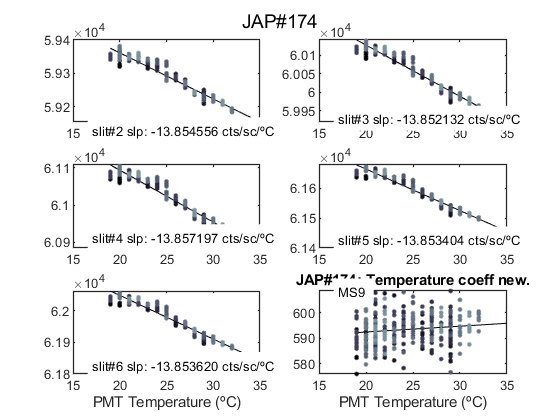
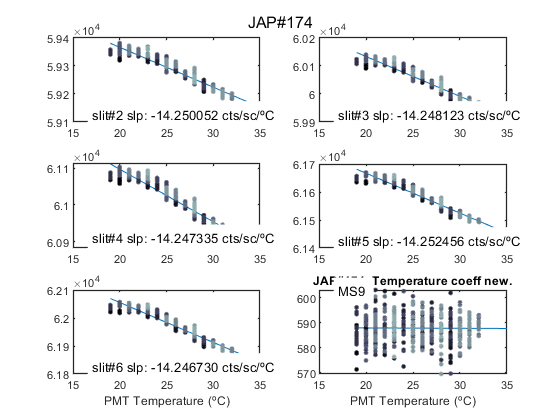
cal_report_174a2

diff --git a/latex/174/html/cal_report_174a2.html b/latex/174/html/cal_report_174a2.html
@@ -6,7 +6,7 @@
    <!--
 This HTML was auto-generated from MATLAB code.
 To make changes, update the MATLAB code and republish this document.
-      --><title>cal_report_174a2</title><meta name="generator" content="MATLAB 9.4"><link rel="schema.DC" href="http://purl.org/dc/elements/1.1/"><meta name="DC.date" content="2019-06-25"><meta name="DC.source" content="cal_report_174a2.m"><style type="text/css">
+      --><title>cal_report_174a2</title><meta name="generator" content="MATLAB 9.4"><link rel="schema.DC" href="http://purl.org/dc/elements/1.1/"><meta name="DC.date" content="2019-06-27"><meta name="DC.source" content="cal_report_174a2.m"><style type="text/css">
 html,body,div,span,applet,object,iframe,h1,h2,h3,h4,h5,h6,p,blockquote,pre,a,abbr,acronym,address,big,cite,code,del,dfn,em,font,img,ins,kbd,q,s,samp,small,strike,strong,sub,sup,tt,var,b,u,i,center,dl,dt,dd,ol,ul,li,fieldset,form,label,legend,table,caption,tbody,tfoot,thead,tr,th,td{margin:0;padding:0;border:0;outline:0;font-size:100%;vertical-align:baseline;background:transparent}body{line-height:1}ol,ul{list-style:none}blockquote,q{quotes:none}blockquote:before,blockquote:after,q:before,q:after{content:'';content:none}:focus{outine:0}ins{text-decoration:none}del{text-decoration:line-through}table{border-collapse:collapse;border-spacing:0}
 
 html { min-height:100%; margin-bottom:1px; }
@@ -66,7 +66,7 @@ table td { padding:7px 5px; text-align:left; vertical-align:top; border:1px soli
 
 
 
-  </style></head><body><div class="content"><h2>Contents</h2><div><ul><li><a href="#2">Brewer Setup</a></li><li><a href="#3">configuration files</a></li><li><a href="#4">Temperature dependence.  During campaign</a></li><li><a href="#9">Check previous results</a></li><li><a href="#10">SL summary from bfiles temperature</a></li><li><a href="#13">Check changes</a></li><li><a href="#15">Latex stuff</a></li><li><a href="#16">Filter attenuation</a></li></ul></div><pre class="codeinput"><span class="comment">% options_pub.outputDir=fullfile(pwd,'latex','174','html'); options_pub.showCode=true;</span>
+  </style></head><body><div class="content"><h2>Contents</h2><div><ul><li><a href="#2">Brewer Setup</a></li><li><a href="#3">configuration files</a></li><li><a href="#4">Temperature dependence.  During campaign</a></li><li><a href="#9">Check previous results</a></li><li><a href="#10">SL summary from bfiles temperature</a></li><li><a href="#14">Latex stuff</a></li><li><a href="#15">Filter attenuation</a></li></ul></div><pre class="codeinput"><span class="comment">% options_pub.outputDir=fullfile(pwd,'latex','174','html'); options_pub.showCode=true;</span>
 <span class="comment">% publish(fullfile(pwd,'cal_report_174a2.m'),options_pub);</span>
 </pre><h2 id="2">Brewer Setup</h2><pre class="codeinput">clear <span class="string">all</span>;
 
@@ -89,12 +89,20 @@ mkdir(Cal.dir_figs);
 
 load(Cal.file_save,<span class="string">'temperature'</span>);
 load(Cal.file_save,<span class="string">'filter'</span>);
-</pre><pre class="codeoutput">ans =
-  1&times;1 cell array
-    {'IZO#185'}
+</pre><pre class="codeoutput">
 ans =
+
+  1&times;1 cell array
+
+    {'IZO#185'}
+
+
+ans =
+
   20&times;9 cell array
+
   Columns 1 through 5
+
     {'TSK#005'}    {[  5]}    {[2]}    {[0]}    {'005'}
     {'IOS#017'}    {[ 17]}    {[2]}    {[0]}    {'017'}
     {'SCO#033'}    {[ 33]}    {[2]}    {[0]}    {'033'}
@@ -115,27 +123,34 @@ ans =
     {'TAM#201'}    {[201]}    {[3]}    {[0]}    {'201'}
     {'DNK#202'}    {[202]}    {[3]}    {[0]}    {'202'}
     {'DNK#228'}    {[228]}    {[3]}    {[0]}    {'228'}
+
   Columns 6 through 9
-    {'..\005\ICF15117&#8230;'}    {'..\005\ICF15117&#8230;'}    {'1838'}    {'1838'}
+
+    {'..\005\ICF15117&#8230;'}    {'..\005\ICF17219&#8230;'}    {'1838'}    {'1838'}
     {'..\017\ICF14919&#8230;'}    {'..\017\ICF14919&#8230;'}    {'1680'}    {'1680'}
     {'..\033\ICF15617&#8230;'}    {'..\033\IOS15617&#8230;'}    {'2325'}    {'2325'}
     {'..\070\ICF15617&#8230;'}    {'..\070\IOS15617&#8230;'}    {'1685'}    {'1685'}
-    {'..\075\ICF15017&#8230;'}    {'..\075\ICF15017&#8230;'}    {'1714'}    {'1714'}
+    {'..\075\ICF15017&#8230;'}    {'..\075\ICF17819&#8230;'}    {'1714'}    {'1714'}
     {'..\117\ICF15517&#8230;'}    {'..\117\IOS15517&#8230;'}    {'1620'}    {'1620'}
     {'..\126\icf15517&#8230;'}    {'..\126\ICF17419&#8230;'}    {'1710'}    {'1710'}
     {'..\150\ICF15617&#8230;'}    {'..\150\ICF15617&#8230;'}    {'0322'}    {'0322'}
     {'..\151\ICF15317&#8230;'}    {'..\151\IOS15317&#8230;'}    {'1880'}    {'1880'}
     {'..\158\ICF21218&#8230;'}    {'..\158\ICF21218&#8230;'}    {'0558'}    {'0558'}
-    {'..\163\ICF23318&#8230;'}    {'..\163\ICF23318&#8230;'}    {'0274'}    {'0274'}
+    {'..\163\ICF21018&#8230;'}    {'..\163\ICF17519&#8230;'}    {'0274'}    {'0274'}
     {'..\166\ICF15217&#8230;'}    {'..\166\ICF17419&#8230;'}    {'1955'}    {'1955'}
-    {'..\172\ICF15117&#8230;'}    {'..\172\ICF15117&#8230;'}    {'0444'}    {'0444'}
+    {'..\172\ICF15117&#8230;'}    {'..\172\ICF17819&#8230;'}    {'0444'}    {'0444'}
     {'..\174\ICF20718&#8230;'}    {'..\174\ICF20718&#8230;'}    {'0605'}    {'0605'}
     {'..\185\config18&#8230;'}    {'..\185\config18&#8230;'}    {'0365'}    {'0367'}
     {'..\186\ICF15317&#8230;'}    {'..\186\IOS15317&#8230;'}    {'0315'}    {'0315'}
     {'..\190\ICF11419&#8230;'}    {'..\190\ICF11419&#8230;'}    {'0410'}    {'0410'}
     {'..\201\ICF14315&#8230;'}    {'..\201\ICF14315&#8230;'}    {'0320'}    {'0320'}
-    {'..\202\ICF15017&#8230;'}    {'..\202\ICF15017&#8230;'}    {'0270'}    {'0270'}
-    {'..\228\ICF15017&#8230;'}    {'..\228\ICF17319&#8230;'}    {'0242'}    {'0242'}
+    {'..\202\ICF15017&#8230;'}    {'..\202\ICF17519&#8230;'}    {'0270'}    {'0270'}
+    {'..\228\ICF15017&#8230;'}    {'..\228\ICF17419&#8230;'}    {'0242'}    {'0242'}
+
+-&gt;ERROR
+     2
+
+D:\CODE\campaigns\are2019\bfiles\202\..\202\ICF17519.202
 </pre><h2 id="3">configuration files</h2><pre class="codeinput">close <span class="string">all</span>;
 
 [config_def,TCdef,DTdef,ETCdef,A1def,ATdef]=read_icf(Cal.brw_config_files{Cal.n_inst,2});
@@ -163,22 +178,22 @@ List of arguments given default values:
    'TCB'    defaults to []
    'N_TC'    defaults to []
 --------------------------------------
- ORIG MS9:   590 +/- 1  0.3 +/- 0.04  
-  NEW MS9:   588 +/- 2  0.2 +/- 0.08  
+ ORIG MS9:   590 +/- 1  0.3 +/- 0.03  
+  NEW MS9:   588 +/- 2  -0.0 +/- 0.07  
 </pre><img vspace="5" hspace="5" src="cal_report_174a2_01.png" alt=""> <img vspace="5" hspace="5" src="cal_report_174a2_02.png" alt=""> <img vspace="5" hspace="5" src="cal_report_174a2_03.png" alt=""> <img vspace="5" hspace="5" src="cal_report_174a2_04.png" alt=""> <pre class="codeinput">    makeHtmlTable([ajuste{1}.cero(:,[1 3]) ajuste{1}.cero(:,[2 4])],[],<span class="keyword">...</span>
         {<span class="string">'slit#2'</span>,<span class="string">'slit#3'</span>,<span class="string">'slit#4'</span>,<span class="string">'slit#5'</span>,<span class="string">'slit#6'</span>,<span class="string">'R5'</span>,<span class="string">'R6'</span>},{<span class="string">'a'</span>,<span class="string">'a SE'</span>,<span class="string">'b'</span>,<span class="string">'b SE'</span>},[],4);
 </pre><table border="1" cellpadding="4" cellspacing="0">
 <tr><td></td><td>a</td><td>a SE</td><td>b</td><td>b SE</td></tr>
-<tr><td>slit#2</td><td>5.964e+04</td><td>5.143</td><td>-13.85</td><td>0.2098</td></tr>
-<tr><td>slit#3</td><td>6.04e+04</td><td>4.691</td><td>-13.98</td><td>0.1914</td></tr>
-<tr><td>slit#4</td><td>6.137e+04</td><td>4.588</td><td>-14.06</td><td>0.1872</td></tr>
-<tr><td>slit#5</td><td>6.194e+04</td><td>4.366</td><td>-13.48</td><td>0.1781</td></tr>
-<tr><td>slit#6</td><td>6.233e+04</td><td>4.332</td><td>-13.36</td><td>0.1767</td></tr>
-<tr><td>R5</td><td>1055</td><td>3.847</td><td>0.3861</td><td>0.1569</td></tr>
-<tr><td>R6</td><td>587.9</td><td>2.017</td><td>0.24</td><td>0.08228</td></tr>
+<tr><td>slit#2</td><td>5.965e+04</td><td>5.153</td><td>-14.25</td><td>0.204</td></tr>
+<tr><td>slit#3</td><td>6.042e+04</td><td>4.644</td><td>-14.42</td><td>0.1838</td></tr>
+<tr><td>slit#4</td><td>6.138e+04</td><td>4.555</td><td>-14.38</td><td>0.1803</td></tr>
+<tr><td>slit#5</td><td>6.195e+04</td><td>4.357</td><td>-13.83</td><td>0.1725</td></tr>
+<tr><td>slit#6</td><td>6.234e+04</td><td>4.226</td><td>-13.79</td><td>0.1673</td></tr>
+<tr><td>R5</td><td>1056</td><td>3.186</td><td>0.3534</td><td>0.1261</td></tr>
+<tr><td>R6</td><td>588.2</td><td>1.658</td><td>0.2331</td><td>0.06564</td></tr>
 </table><pre class="codeinput">    makeHtmlTable(NTC{1});
 </pre><table border="1" cellpadding="4" cellspacing="0">
-<tr><td>0</td><td>0.13</td><td>0.2</td><td>-0.37</td><td>-0.49</td></tr>
+<tr><td>0</td><td>0.17</td><td>0.13</td><td>-0.42</td><td>-0.46</td></tr>
 </table><pre class="codeinput"><span class="keyword">else</span>
     Fr=NaN*ones(1,9);
     ajuste{1}.orig=NaN*ones(7,4);
@@ -229,10 +244,14 @@ List of arguments given default values:
 </pre><img vspace="5" hspace="5" src="cal_report_174a2_05.png" alt=""> <img vspace="5" hspace="5" src="cal_report_174a2_06.png" alt=""> <img vspace="5" hspace="5" src="cal_report_174a2_07.png" alt=""> <img vspace="5" hspace="5" src="cal_report_174a2_08.png" alt=""> <img vspace="5" hspace="5" src="cal_report_174a2_09.png" alt=""> <pre class="codeinput">tc_reg_table=makeHtml_Table([ajuste{2}.cero(:,[1 3]) ajuste{2}.cero(:,[2 4])],[],<span class="keyword">...</span>
         {<span class="string">'slit#2'</span>,<span class="string">'slit#3'</span>,<span class="string">'slit#4'</span>,<span class="string">'slit#5'</span>,<span class="string">'slit#6'</span>,<span class="string">'R5'</span>,<span class="string">'R6'</span>},{<span class="string">'a'</span>,<span class="string">'a SE'</span>,<span class="string">'b'</span>,<span class="string">'b SE'</span>},[],4)
 temperature{Cal.n_inst}.regression_table=tc_reg_table;
-</pre><pre class="codeoutput">tc_reg_table =
+</pre><pre class="codeoutput">
+tc_reg_table =
+
   7&times;4 table
+
                 a         aSE         b          bSE   
               ______    _______    ________    ________
+
     slit_2     59428     2.5623      -10.35     0.10614
     slit_3     60204     2.5146     -10.632     0.10417
     slit_4     61192     2.4703     -10.979     0.10233
@@ -240,14 +259,13 @@ temperature{Cal.n_inst}.regression_table=tc_reg_table;
     slit_6     62147     2.4551     -10.443      0.1017
     R5        1072.2    0.43189    0.096235    0.017885
     R6         601.9    0.24676    0.062617    0.010219
+
 </pre><pre class="codeinput">tc_coeff_table=makeHtml_Table(NTC{2})
 temperature{Cal.n_inst}.coeff_table=tc_coeff_table;
-</pre><pre class="codeoutput">tc_coeff_table =
-  1&times;5 table
-    M1     M2      M3      M4      M5 
-    __    ____    ____    ____    ____
-    0     0.28    0.63    0.08    0.09
-</pre><h2 id="13">Check changes</h2><pre class="codeinput">[NTCx,ajustex,Argsx,Fraw,Forig]=temp_coeff_raw(config_temp,sl_raw{Cal.n_inst},<span class="string">'outlier_flag'</span>,1,<span class="string">'plots'</span>,0,<span class="keyword">...</span>
+
+<span class="comment">%  Check changes</span>
+ clear <span class="string">year</span>;
+[NTCx,ajustex,Argsx,Fraw,Forig]=temp_coeff_raw(config_temp,sl_raw{Cal.n_inst},<span class="string">'outlier_flag'</span>,1,<span class="string">'plots'</span>,0,<span class="keyword">...</span>
                                 <span class="string">'N_TC'</span>,TCorig(1:5)',<span class="string">'date_range'</span>,datenum(Cal.Date.cal_year-2,1,[Cal.calibration_days{Cal.n_inst,1}(1)]));
 
 Forigx=Forig; Fn=Fnew;
@@ -276,7 +294,17 @@ lg=legend(<span class="string">'Old temperature coeff'</span>,<span class="strin
 set(lg,<span class="string">'HandleVisibility'</span>,<span class="string">'Off'</span>); set(findobj(lg,<span class="string">'Type'</span>,<span class="string">'text'</span>),<span class="string">'FontSize'</span>,7,<span class="string">'HandleVisibility'</span>,<span class="string">'Off'</span>);
 title([<span class="string">'R6 Temperature dependence Brewer#'</span>, Cal.brw_str{Cal.n_inst}]);
 ylabel(<span class="string">'Standard Lamp R6 ratio'</span>); xlabel(<span class="string">'Temperature'</span>); set(gca,<span class="string">'Box'</span>,<span class="string">'On'</span>);
-</pre><pre class="codeoutput">--------- Validation OK --------------
+</pre><pre class="codeoutput">
+tc_coeff_table =
+
+  1&times;5 table
+
+    M1     M2      M3      M4      M5 
+    __    ____    ____    ____    ____
+
+    0     0.28    0.63    0.08    0.09
+
+--------- Validation OK --------------
 List of arguments given default values:
    'plot_flag'    defaults to 0
    'intensity_flag'    defaults to 0
@@ -296,18 +324,33 @@ ix=sort(findobj(<span class="string">'tag'</span>,<span class="string">'TEMP_COM
 printfiles_report(ix',Cal.dir_figs,<span class="string">'aux_pattern'</span>,ix,<span class="string">'Width'</span>,12.5,<span class="string">'Height'</span>,6.5);
 
 close <span class="string">all</span>
-</pre><pre class="codeoutput">naux =
+</pre><pre class="codeoutput">
+naux =
+
      1
+
+
 figura =
+
     '174_figures_TEMP_OLD_VS_NEW_1'
+
+
 naux =
+
      2
+
+
 naux =
+
      1
+
+
 naux =
+
      1
-</pre><h2 id="15">Latex stuff</h2><pre class="codeinput"><span class="comment">% Temperature Range</span>
-<span class="comment">% Para que funcione asignamos la salida Fr en la llamada a la funci&iuml;&iquest;&frac12;n</span>
+
+</pre><h2 id="14">Latex stuff</h2><pre class="codeinput"><span class="comment">% Temperature Range</span>
+<span class="comment">% Para que funcione asignamos la salida Fr en la llamada a la funci&yuml;n</span>
 <span class="comment">% temp_coeff_raw donde se calculen los TC's (en este caso en {})</span>
 tmp=Fr(:,2);
 latexcmd(fullfile(Cal.file_latex,[<span class="string">'cal_tempcoeff_'</span>,Cal.brw_str{Cal.n_inst}]),<span class="keyword">...</span>
@@ -318,7 +361,7 @@ temperature{Cal.n_inst}.NTC=NTC;
 temperature{Cal.n_inst}.ajuste=ajuste;
 <span class="keyword">if</span> exist(<span class="string">'Args'</span>,<span class="string">'var'</span>)
 temperature{Cal.n_inst}.info=Args;
-<span class="keyword">else</span> warning(<span class="string">'No se est&iuml;&iquest;&frac12;n guardando los inputs de la funci&iuml;&iquest;&frac12;n!!'</span>)
+<span class="keyword">else</span> warning(<span class="string">'No se est&yuml;n guardando los inputs de la funci&yuml;n!!'</span>)
 <span class="keyword">end</span>
 save(Cal.file_save,<span class="string">'-APPEND'</span>,<span class="string">'temperature'</span>);
 
@@ -355,7 +398,7 @@ tabla_regress={};
                <span class="string">'ColumnLabels'</span>,{<span class="string">'0 abscissa +/- standard error'</span>,<span class="string">'slope +/- standard error'</span>},<span class="keyword">...</span>
                <span class="string">'alignment'</span>, <span class="string">'c'</span>,<span class="string">'resize'</span>,0.8,<span class="string">'size'</span>,<span class="string">'footnotesize'</span>);
  <span class="keyword">end</span>
-</pre><h2 id="16">Filter attenuation</h2><pre class="codeinput">[ETC_FILTER_CORRECTION,media_fi,fi,fi_avg]=filter_rep(Cal.brw_str{Cal.n_inst},<span class="keyword">...</span>
+</pre><h2 id="15">Filter attenuation</h2><pre class="codeinput">[ETC_FILTER_CORRECTION,media_fi,fi,fi_avg]=filter_rep(Cal.brw_str{Cal.n_inst},<span class="keyword">...</span>
                              <span class="string">'date_range'</span>,datenum(Cal.Date.cal_year-4,1,1),<span class="keyword">...</span>
                              <span class="string">'outlier_flag'</span>,1,<span class="string">'plot_flag'</span>,0,<span class="string">'config'</span>,config_orig(17:22));
 
@@ -398,13 +441,17 @@ List of arguments given default values:
    'path_to_file'    defaults to .
 --------------------------------------
   Columns 1 through 4
-    [         -4]    [          -6]    [         -11]    [        -4]
-    [       -5.4]    [          -7]    [        -7.6]    [      -2.9]
-    '[-8.6 -2.2]'    '[-11.5 -2.7]'    '[-10.8 -4.5]'    '[-6.6 1.2]'
+
+    [         -3]    [          -6]    [          -2]    [        -6]
+    [         -5]    [     -7.1000]    [     -7.4000]    [   -1.7000]
+    '[-7.9 -2.1]'    '[-11.1 -3.1]'    '[-10.3 -4.4]'    '[-5.6 2.6]'
+
   Column 5
-    [       -5]
-    [     -4.5]
-    '[-8.3 -1]'
+
+    [         -3]
+    [         -5]
+    '[-8.6 -1.7]'
+
 </pre><img vspace="5" hspace="5" src="cal_report_174a2_12.png" alt=""> <img vspace="5" hspace="5" src="cal_report_174a2_13.png" alt=""> <img vspace="5" hspace="5" src="cal_report_174a2_14.png" alt=""> <img vspace="5" hspace="5" src="cal_report_174a2_15.png" alt=""> <img vspace="5" hspace="5" src="cal_report_174a2_16.png" alt=""> <img vspace="5" hspace="5" src="cal_report_174a2_17.png" alt=""> <pre class="codeinput">fprintf(<span class="string">'\nFI''s analyzed: %d\n'</span>,NFI);
 fi_mean_table=display_table([fix(media_fi);fix(mean(media_fi))],label_2,10,<span class="string">'.5g'</span>,label_1)
 filter{Cal.n_inst}.mean_table=fi_mean_table;
@@ -416,26 +463,36 @@ filter{Cal.n_inst}.etc_table=fi_etc_table;
 
 save(Cal.file_save,<span class="string">'-APPEND'</span>,<span class="string">'filter'</span>);
 </pre><pre class="codeoutput">
-FI's analyzed: 50
+FI's analyzed: 57
+
 fi_mean_table =
+
   7&times;5 table
+
               filter_1    filter_2    filter_3    filter_4    filter_5
               ________    ________    ________    ________    ________
-    slit_0      4377       10274       14049       21835       26039  
-    slit_1      4384       10252       14060       21793       26010  
-    slit_2      4396       10240       14080       21753       25987  
-    slit_3      4403       10225       14094       21715       25966  
-    slit_4      4414       10216       14112       21681       25954  
-    slit_5      4424       10208       14132       21651       25941  
-    mean        4399       10235       14087       21738       25982  
+
+    slit_0      4375       10272       14048       21831       26035  
+    slit_1      4381       10249       14058       21790       26009  
+    slit_2      4394       10238       14074       21748       25986  
+    slit_3      4402       10223       14091       21710       25962  
+    slit_4      4413       10213       14111       21678       25950  
+    slit_5      4423       10205       14128       21650       25934  
+    mean        4398       10233       14085       21734       25979  
+
+
 fi_etc_table =
+
   4&times;5 table
+
                              filter_1    filter_2    filter_3    filter_4    filter_5
                              ________    ________    ________    ________    ________
-    ETCFilt_Corr__median_         -4          -6         -11          -4          -5 
-    ETCFilt_Corr__mean_      -5.4458      -7.044     -7.6297      -2.901     -4.4879 
-    ETCFilt_Corr__CI_         -8.552      -11.49     -10.831     -6.6491     -8.3246 
-    ETCFilt_Corr__CI__1        -2.17     -2.6717       -4.48      1.1974      -1.044 
+
+    ETCFilt_Corr__median_         -3          -6          -2          -6          -3 
+    ETCFilt_Corr__mean_      -4.9895     -7.1357     -7.4053     -1.6811     -4.9633 
+    ETCFilt_Corr__CI_        -7.8931     -11.143      -10.26     -5.5526     -8.6302 
+    ETCFilt_Corr__CI__1      -2.0756     -3.1276     -4.3625      2.5545     -1.6948 
+
 </pre><pre class="codeinput"> figure(maxf(findobj(<span class="string">'tag'</span>,<span class="string">'FI_wavelength'</span>)));
  printfiles_report(gcf,Cal.dir_figs,<span class="string">'Width'</span>,13.5);
 
@@ -571,7 +628,8 @@ temperature{Cal.n_inst}.regression_table=tc_reg_table;
 tc_coeff_table=makeHtml_Table(NTC{2})
 temperature{Cal.n_inst}.coeff_table=tc_coeff_table;
 
-%%  Check changes
+%  Check changes 
+ clear year;
 [NTCx,ajustex,Argsx,Fraw,Forig]=temp_coeff_raw(config_temp,sl_raw{Cal.n_inst},'outlier_flag',1,'plots',0,...
                                 'N_TC',TCorig(1:5)','date_range',datenum(Cal.Date.cal_year-2,1,[Cal.calibration_days{Cal.n_inst,1}(1)]));
 
@@ -623,7 +681,7 @@ close all
 %% Latex stuff
 
 % Temperature Range
-% Para que funcione asignamos la salida Fr en la llamada a la funciï¿½n
+% Para que funcione asignamos la salida Fr en la llamada a la funciÿn
 % temp_coeff_raw donde se calculen los TC's (en este caso en {})
 tmp=Fr(:,2);
 latexcmd(fullfile(Cal.file_latex,['cal_tempcoeff_',Cal.brw_str{Cal.n_inst}]),...
@@ -634,7 +692,7 @@ temperature{Cal.n_inst}.NTC=NTC;
 temperature{Cal.n_inst}.ajuste=ajuste;
 if exist('Args','var')
 temperature{Cal.n_inst}.info=Args;
-else warning('No se estï¿½n guardando los inputs de la funciï¿½n!!')
+else warning('No se estÿn guardando los inputs de la funciÿn!!')
 end
 save(Cal.file_save,'-APPEND','temperature');
 
